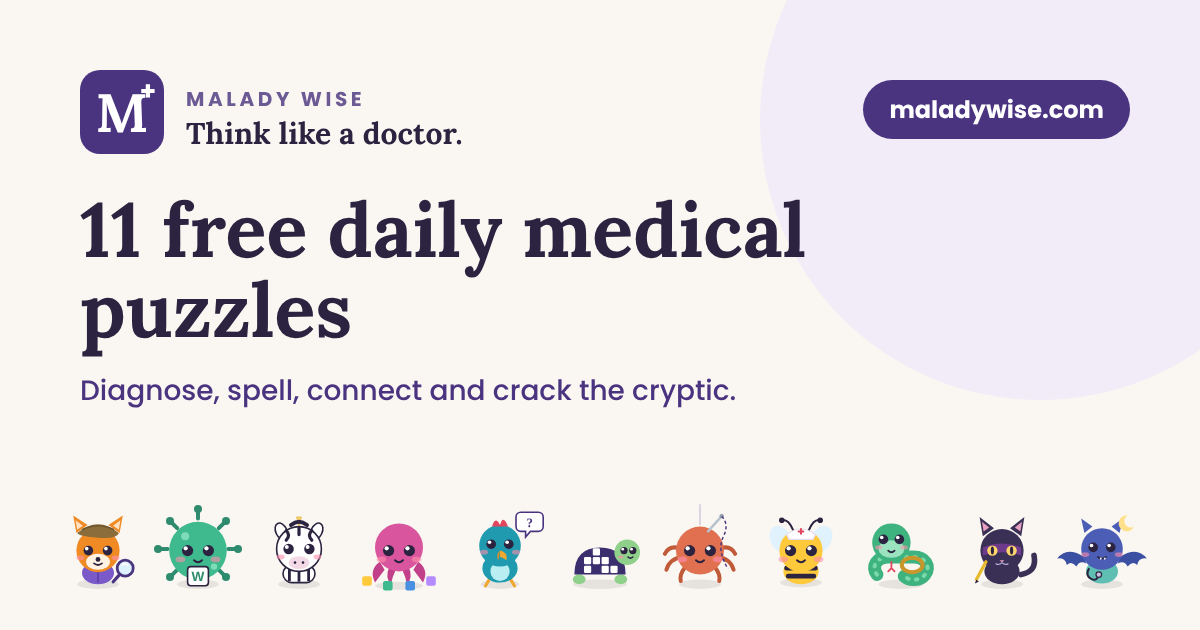
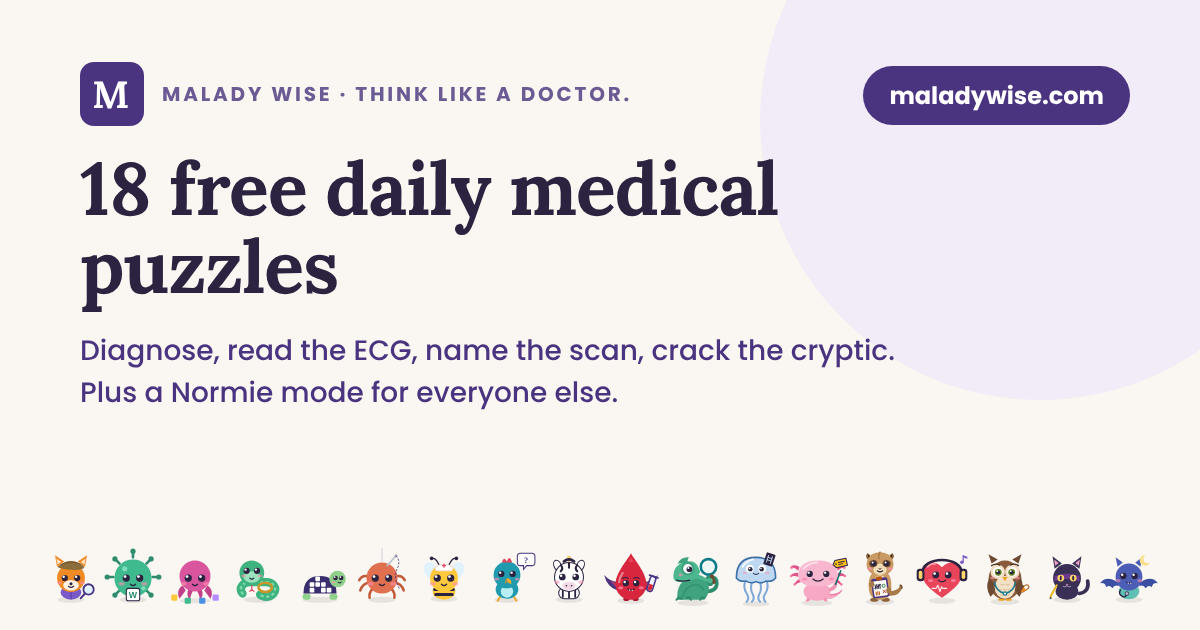
New preview cards: 18-game share image, Anatomegaly, Sensitosis, GP School, Arrhythmix Mon & Thu
Claude-Session: https://claude.ai/code/session_01CBByq29dY2cNCTmjZTgF1V

diff --git a/arrhythmix/index.html b/arrhythmix/index.html
@@ -18,13 +18,13 @@
 <meta property="og:title" content="Arrhythmix: ECG Quiz Every Monday and Thursday | Malady Wise">
 <meta property="og:description" content="Arrhythmix: a free ECG quiz, new every Monday and Thursday. Read the rhythm strip or 12-lead, pick the diagnosis in three tries and learn the key features.">
 <meta property="og:url" content="https://maladywise.com/arrhythmix/">
-<meta property="og:image" content="https://maladywise.com/assets/og/arrhythmix.png?v=1">
+<meta property="og:image" content="https://maladywise.com/assets/og/arrhythmix.png?v=2">
 <meta property="og:image:width" content="1200">
 <meta property="og:image:height" content="630">
 <meta name="twitter:card" content="summary_large_image">
 <meta name="twitter:title" content="Arrhythmix: ECG Quiz Every Monday and Thursday | Malady Wise">
 <meta name="twitter:description" content="Arrhythmix: a free ECG quiz, new every Monday and Thursday. Read the rhythm strip or 12-lead, pick the diagnosis in three tries and learn the key features.">
-<meta name="twitter:image" content="https://maladywise.com/assets/og/arrhythmix.png?v=1">
+<meta name="twitter:image" content="https://maladywise.com/assets/og/arrhythmix.png?v=2">
 <link rel="stylesheet" href="../assets/shell.css?v=164">
 <script src="../assets/games.js?v=97"></script>
 <script src="../assets/shell.js?v=166"></script>

diff --git a/anatomegaly/index.html b/anatomegaly/index.html
@@ -18,13 +18,13 @@
 <meta property="og:title" content="Anatomegaly: Daily Anatomy Puzzle | Malady Wise">
 <meta property="og:description" content="Anatomegaly: a free daily anatomy puzzle. Name the highlighted structure, the bone or the nerve in five quick rounds. For students, nurses and doctors.">
 <meta property="og:url" content="https://maladywise.com/anatomegaly/">
-<meta property="og:image" content="https://maladywise.com/assets/share.png">
+<meta property="og:image" content="https://maladywise.com/assets/og/anatomegaly.png?v=1">
 <meta property="og:image:width" content="1200">
 <meta property="og:image:height" content="630">
 <meta name="twitter:card" content="summary_large_image">
 <meta name="twitter:title" content="Anatomegaly: Daily Anatomy Puzzle | Malady Wise">
 <meta name="twitter:description" content="Anatomegaly: a free daily anatomy puzzle. Name the highlighted structure, the bone or the nerve in five quick rounds. For students, nurses and doctors.">
-<meta name="twitter:image" content="https://maladywise.com/assets/share.png">
+<meta name="twitter:image" content="https://maladywise.com/assets/og/anatomegaly.png?v=1">
 <link rel="stylesheet" href="../assets/shell.css?v=164">
 <script src="../assets/games.js?v=97"></script>
 <script src="../assets/shell.js?v=166"></script>

diff --git a/index.html b/index.html
@@ -19,13 +19,13 @@
 <meta property="og:title" content="Malady Wise: Free Daily Medical Puzzles and Games">
 <meta property="og:description" content="Think like a doctor. Free daily medical puzzles from an Australian GP: diagnose, read scans and ECGs, link, spell and solve. Free, no ads.">
 <meta property="og:url" content="https://maladywise.com/">
-<meta property="og:image" content="https://maladywise.com/assets/share.png?v=3">
+<meta property="og:image" content="https://maladywise.com/assets/share.png?v=4">
 <meta property="og:image:width" content="1200">
 <meta property="og:image:height" content="630">
 <meta name="twitter:card" content="summary_large_image">
 <meta name="twitter:title" content="Malady Wise: Free Daily Medical Puzzles and Games">
 <meta name="twitter:description" content="Free daily medical puzzles from an Australian GP: diagnose, read scans and ECGs, link, spell and solve. Free, no ads.">
-<meta name="twitter:image" content="https://maladywise.com/assets/share.png?v=3">
+<meta name="twitter:image" content="https://maladywise.com/assets/share.png?v=4">
 <link rel="stylesheet" href="assets/shell.css?v=164">
 <script src="assets/games.js?v=97"></script>
 <script src="assets/site.js?v=32"></script>

diff --git a/unspecialist/index.html b/unspecialist/index.html
@@ -12,9 +12,16 @@
 <link rel="manifest" href="/manifest.webmanifest">
 <meta name="apple-mobile-web-app-capable" content="yes">
 <meta name="apple-mobile-web-app-title" content="Malady Wise">
-<meta property="og:title" content="Unspecialist: The Free GP School | Malady Wise">
+<meta property="og:type" content="website">
+<meta property="og:site_name" content="Malady Wise">
+<meta property="og:title" content="GP School: Free, Game-Style GP Training | Malady Wise">
+<meta property="og:url" content="https://maladywise.com/unspecialist/">
 <meta property="og:description" content="A free, game-style GP school. Huddle, clinic, inbox. Every day.">
-<meta name="twitter:card" content="summary">
+<meta property="og:image" content="https://maladywise.com/assets/og/gpschool.png?v=1">
+<meta property="og:image:width" content="1200">
+<meta property="og:image:height" content="630">
+<meta name="twitter:card" content="summary_large_image">
+<meta name="twitter:image" content="https://maladywise.com/assets/og/gpschool.png?v=1">
 <link rel="stylesheet" href="/assets/shell.css?v=164">
 <link rel="stylesheet" href="unspecialist.css?v=3">
 <script src="/assets/games.js?v=97"></script>

diff --git a/sensitosis/index.html b/sensitosis/index.html
@@ -18,7 +18,11 @@
 <meta property="og:title" content="Sensitosis: How Good Are Medical Tests? | Malady Wise">
 <meta property="og:description" content="Guess how often real medical tests catch a condition and how often they raise false alarms. Five tests a day.">
 <meta property="og:url" content="https://maladywise.com/sensitosis/">
-<meta name="twitter:card" content="summary">
+<meta property="og:image" content="https://maladywise.com/assets/og/sensitosis.png?v=1">
+<meta property="og:image:width" content="1200">
+<meta property="og:image:height" content="630">
+<meta name="twitter:card" content="summary_large_image">
+<meta name="twitter:image" content="https://maladywise.com/assets/og/sensitosis.png?v=1">
 <meta name="twitter:title" content="Sensitosis: How Good Are Medical Tests? | Malady Wise">
 <meta name="twitter:description" content="Guess how often real medical tests catch a condition and how often they raise false alarms. Five tests a day.">
 <link rel="stylesheet" href="../assets/shell.css?v=164">

diff --git a/privacy/index.html b/privacy/index.html
@@ -17,11 +17,11 @@
 <meta property="og:title" content="Privacy | Malady Wise">
 <meta property="og:description" content="Malady Wise privacy: no accounts, no ads, no cookies. Your progress stays in your browser.">
 <meta property="og:url" content="https://maladywise.com/privacy/">
-<meta property="og:image" content="https://maladywise.com/assets/share.png?v=3">
+<meta property="og:image" content="https://maladywise.com/assets/share.png?v=4">
 <meta property="og:image:width" content="1200">
 <meta property="og:image:height" content="630">
 <meta name="twitter:card" content="summary_large_image">
-<meta name="twitter:image" content="https://maladywise.com/assets/share.png?v=3">
+<meta name="twitter:image" content="https://maladywise.com/assets/share.png?v=4">
 <link rel="stylesheet" href="/assets/shell.css?v=164">
 <script src="/assets/games.js?v=97"></script>
 <script src="/assets/site.js?v=32"></script>

diff --git a/disclaimer/index.html b/disclaimer/index.html
@@ -17,11 +17,11 @@
 <meta property="og:title" content="Disclaimer | Malady Wise">
 <meta property="og:description" content="Malady Wise Games disclaimer: general education, not personal medical advice.">
 <meta property="og:url" content="https://maladywise.com/disclaimer/">
-<meta property="og:image" content="https://maladywise.com/assets/share.png?v=3">
+<meta property="og:image" content="https://maladywise.com/assets/share.png?v=4">
 <meta property="og:image:width" content="1200">
 <meta property="og:image:height" content="630">
 <meta name="twitter:card" content="summary_large_image">
-<meta name="twitter:image" content="https://maladywise.com/assets/share.png?v=3">
+<meta name="twitter:image" content="https://maladywise.com/assets/share.png?v=4">
 <link rel="stylesheet" href="/assets/shell.css?v=164">
 <script src="/assets/games.js?v=97"></script>
 <script src="/assets/site.js?v=32"></script>

diff --git a/days/index.html b/days/index.html
@@ -14,7 +14,7 @@
 <meta name="apple-mobile-web-app-title" content="Malady Wise">
 <meta property="og:title" content="Upcoming Health Days | Malady Wise">
 <meta property="og:description" content="Every day on Malady Wise has a theme: world health days, awareness weeks and medical-history anniversaries. See today and the next 30 days.">
-<meta property="og:image" content="https://maladywise.com/assets/share.png?v=3">
+<meta property="og:image" content="https://maladywise.com/assets/share.png?v=4">
 <meta name="twitter:card" content="summary_large_image">
 <link rel="stylesheet" href="/assets/shell.css?v=164">
 <script src="/assets/games.js?v=97"></script>

diff --git a/about/index.html b/about/index.html
@@ -14,7 +14,7 @@
 <meta name="apple-mobile-web-app-title" content="Malady Wise">
 <meta property="og:title" content="About Malady Wise | Malady Wise">
 <meta property="og:description" content="About Malady Wise: free daily medical puzzles, plain-English health fact sheets and medicine guides, written by an Australian GP.">
-<meta property="og:image" content="https://maladywise.com/assets/share.png?v=3">
+<meta property="og:image" content="https://maladywise.com/assets/share.png?v=4">
 <meta name="twitter:card" content="summary_large_image">
 <link rel="stylesheet" href="/assets/shell.css?v=164">
 <script src="/assets/games.js?v=97"></script>

diff --git a/normie/index.html b/normie/index.html
@@ -15,7 +15,7 @@
 <meta property="og:title" content="Normie Mode: Daily Puzzles, No Medicine | Malady Wise">
 <meta property="og:description" content="Free daily trivia, word games, a mini crossword and a rarest-answer quiz with zero medicine. No sign-up.">
 <meta property="og:url" content="https://maladywise.com/normie/">
-<meta property="og:image" content="https://maladywise.com/assets/share.png?v=3">
+<meta property="og:image" content="https://maladywise.com/assets/share.png?v=4">
 <meta name="twitter:card" content="summary_large_image">
 <link rel="stylesheet" href="/assets/shell.css?v=164">
 <script src="/assets/games.js?v=97"></script>

diff --git a/case-1/index.html b/case-1/index.html
@@ -14,7 +14,7 @@
 <meta name="apple-mobile-web-app-title" content="Malady Wise">
 <meta property="og:title" content="Case #1: Rusty Joints | Malady Wise">
 <meta property="og:description" content="A fictional teaching case from an Australian GP. Read the clues, make your guess, then reveal the answer.">
-<meta property="og:image" content="https://maladywise.com/assets/share.png?v=3">
+<meta property="og:image" content="https://maladywise.com/assets/share.png?v=4">
 <meta name="twitter:card" content="summary_large_image">
 <link rel="stylesheet" href="/assets/shell.css?v=164">
 <script src="/assets/games.js?v=97"></script>

diff --git a/cases/index.html b/cases/index.html
@@ -15,7 +15,7 @@
 <meta name="apple-mobile-web-app-title" content="Malady Wise">
 <meta property="og:title" content="Cases | Malady Wise">
 <meta property="og:description" content="Fictional medical cases with a twist, from an Australian GP. Zebras welcome.">
-<meta property="og:image" content="https://maladywise.com/assets/share.png?v=3">
+<meta property="og:image" content="https://maladywise.com/assets/share.png?v=4">
 <meta name="twitter:card" content="summary_large_image">
 <link rel="stylesheet" href="/assets/shell.css?v=164">
 <script src="/assets/games.js?v=97"></script>
